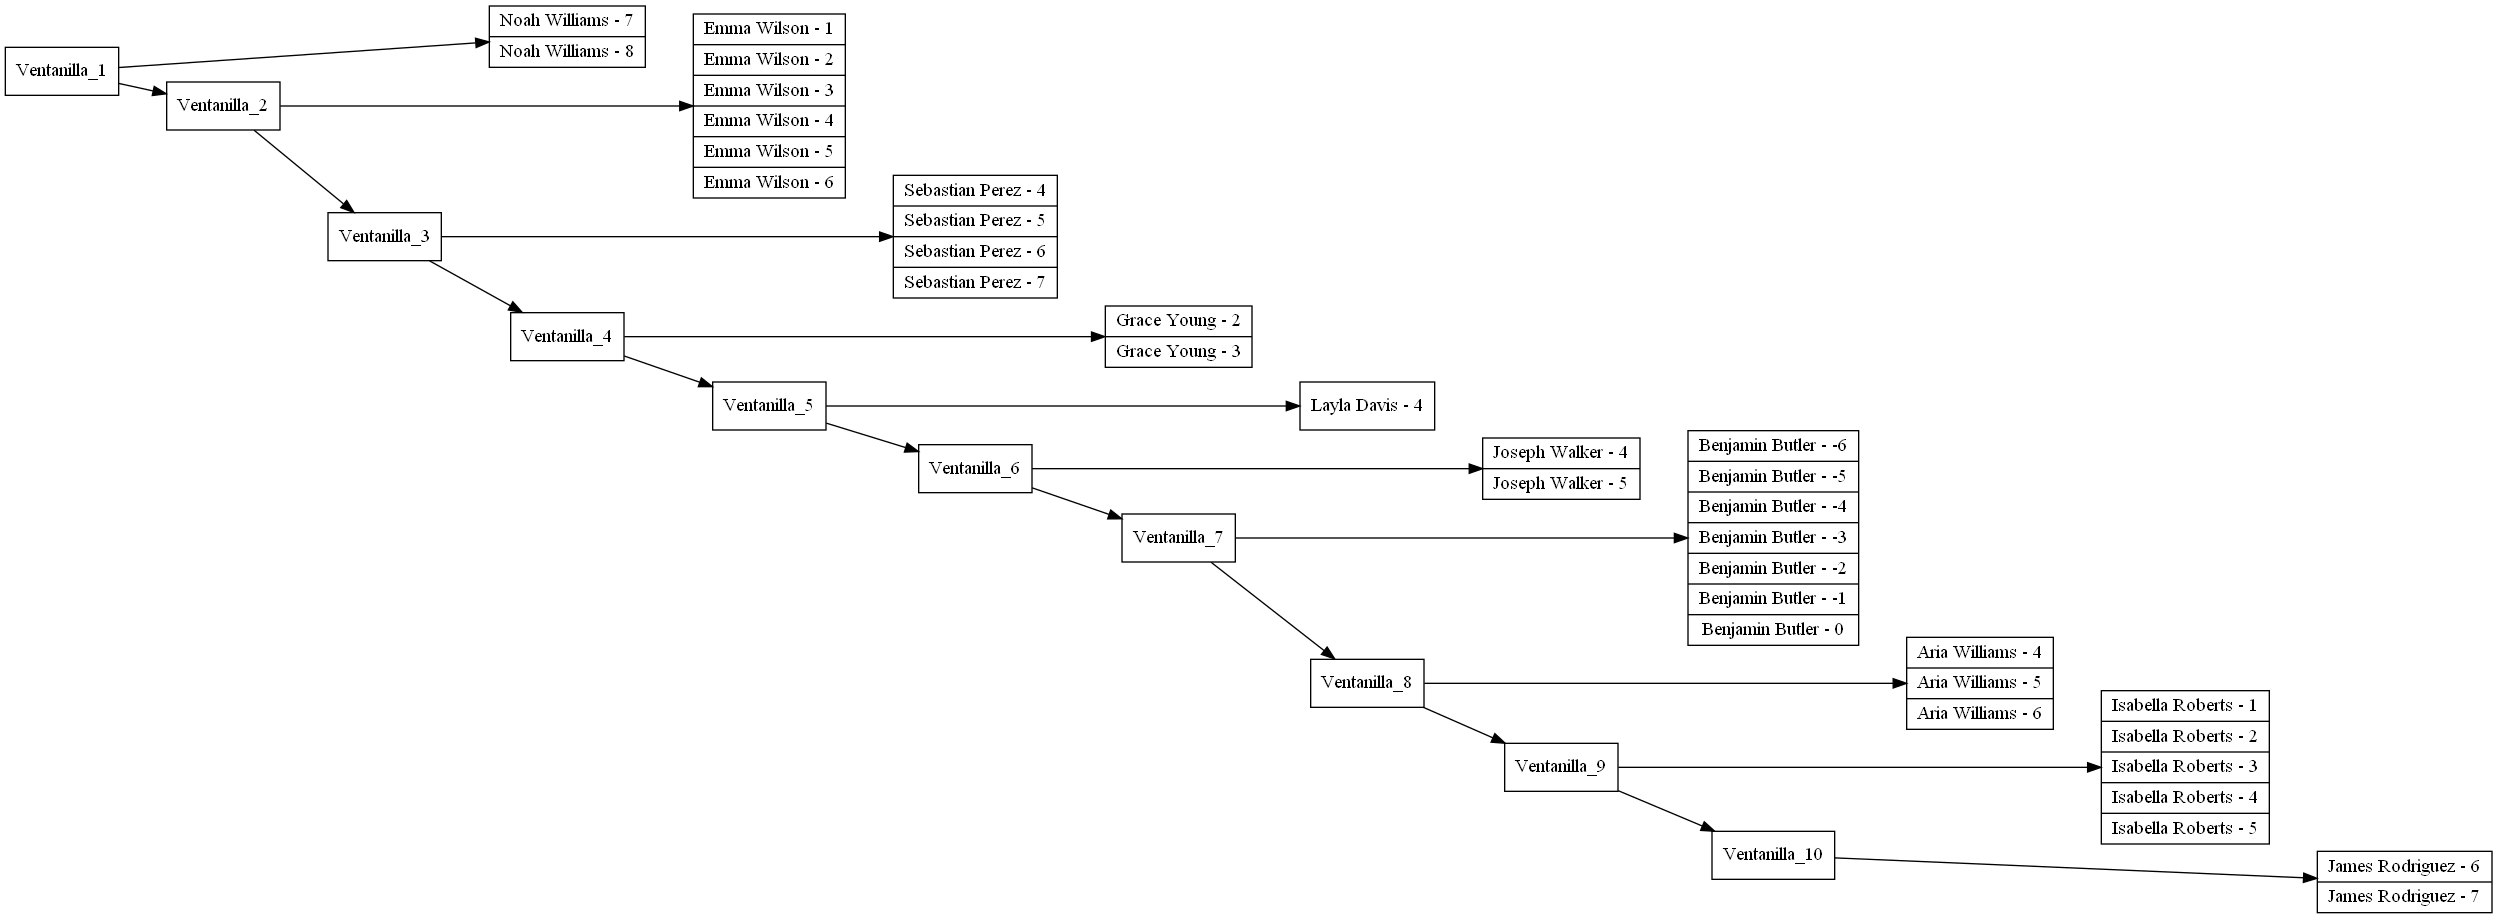
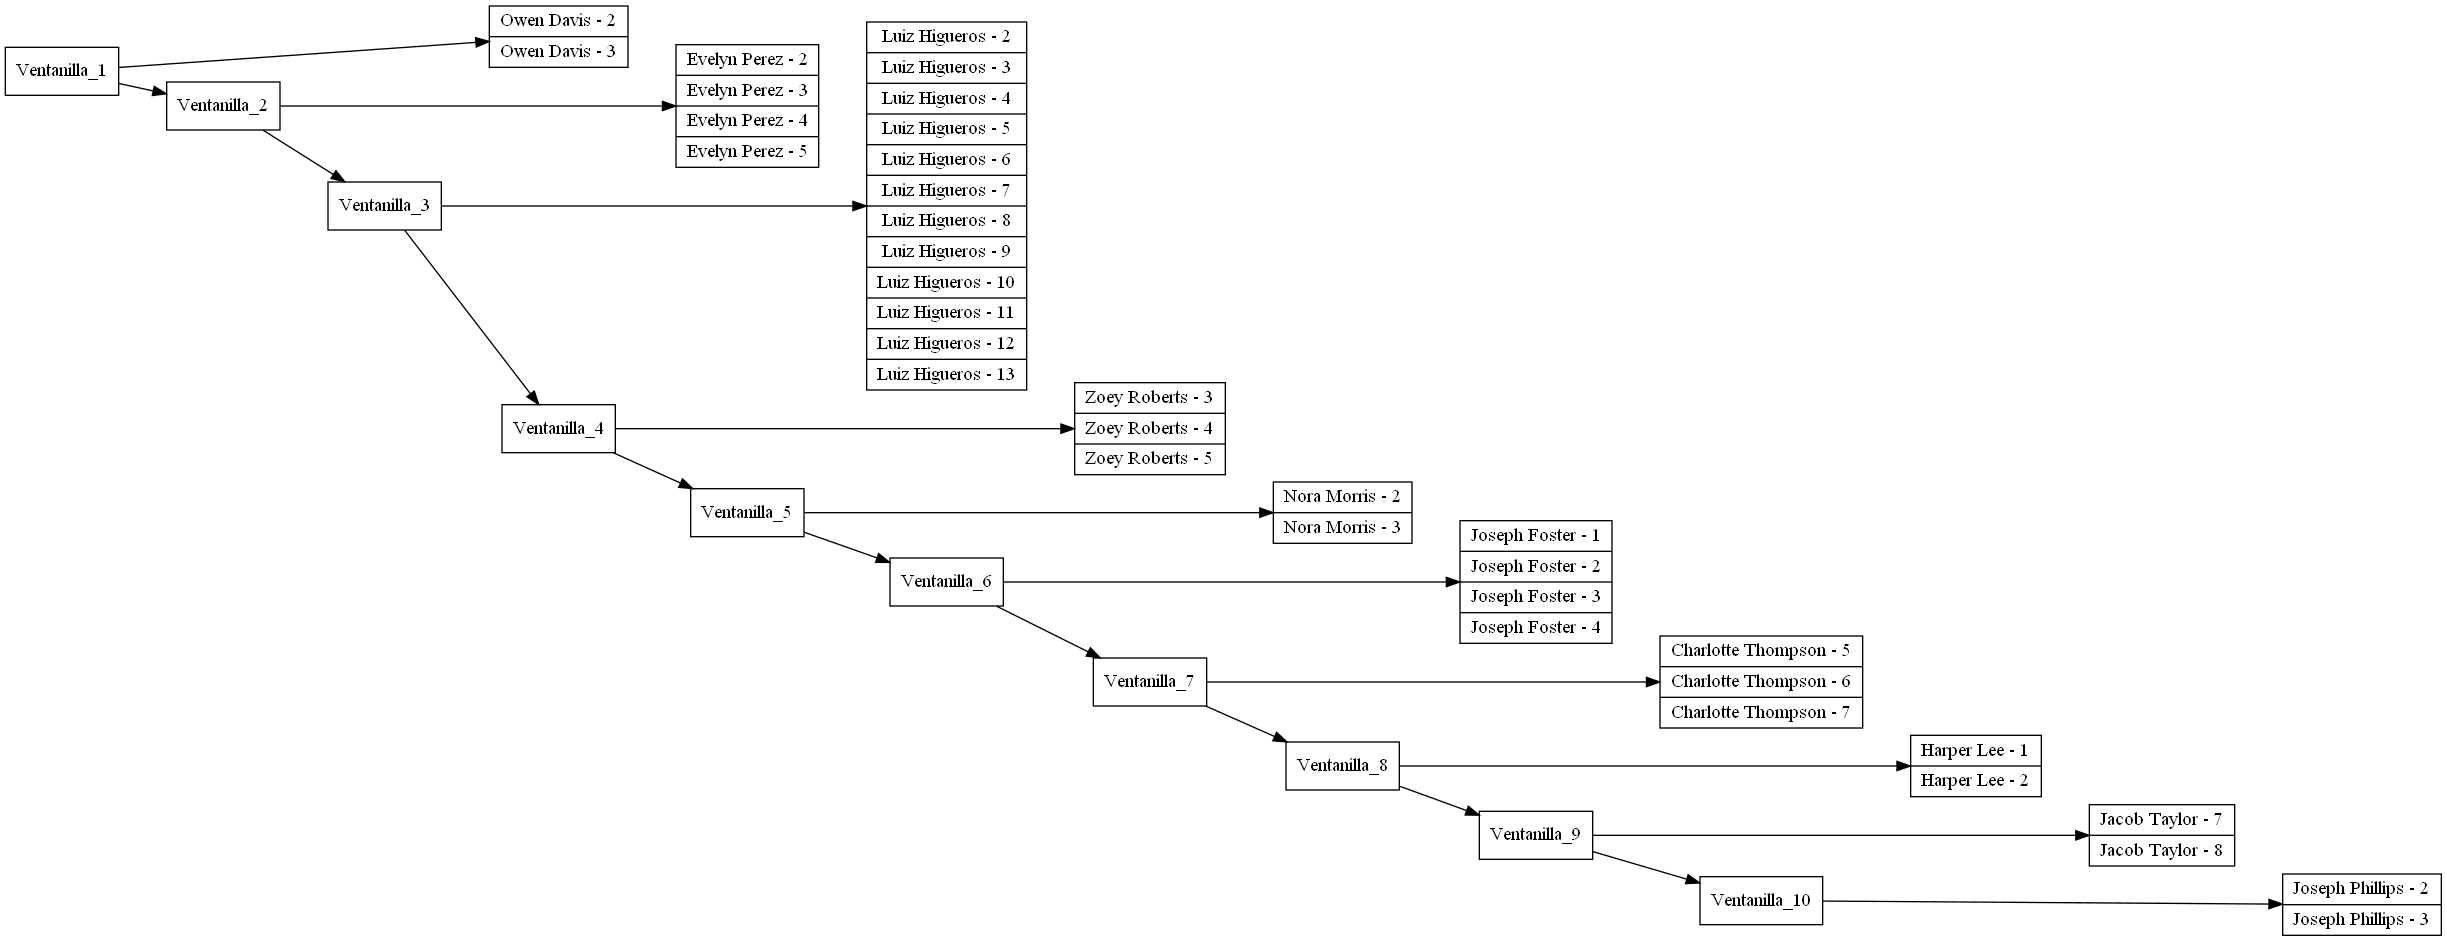
Commit Final

diff --git a/UDrawing_Paper/src/main/java/com/mycompany/udrawing_paper/Main.java b/UDrawing_Paper/src/main/java/com/mycompany/udrawing_paper/Main.java
@@ -6,6 +6,9 @@ package com.mycompany.udrawing_paper;
 
 import java.io.File;
 import  com.jayway.jsonpath.JsonPath;
+import java.util.ArrayList;
+import java.util.Collections;
+import java.util.Comparator;
 import java.util.List;
 import java.util.Map;
 import java.util.Random;
@@ -34,6 +37,7 @@ public class Main {
         String x = "";
         int conC = 0;  //Indica cuantos pasos llevva la impresión a color 
         int conB = 0;  //Indica cuantos pasos llevva la impresión a BN 
+        int pasos = 1; //Contador de pasos ejecutados
         //Inicialización de grafos
         Atendidos.add(null, "Vacio");
         BN.enqueue(null, "Libre");
@@ -73,6 +77,7 @@ public class Main {
                     //Carga de datos
                     if ("1".equals(x1)){ 
                         try{
+                            Clientes.deleteL();
                             Scanner a1 = new Scanner(System.in);
                             String ruta;
                             System.out.println("Ingrese la ruta del archivo:");
@@ -153,9 +158,10 @@ public class Main {
                     System.out.println("---------------------------------------------------------");
                 }else{
                     System.out.println("*********************************************************");
-                    System.out.println("                   RESUMEN DEL PASO");
+                    System.out.println("                   RESUMEN DEL PASO " + Integer.toString(pasos));
                     System.out.println("*********************************************************");
-
+                    pasos++;
+                    
                 //Manejo de la Cola------------------------------------------------------------
                     //Inicializar cola
                     NodoCola tcc = Clientes.head;
@@ -411,6 +417,8 @@ public class Main {
                             if (ct.total == 0){
                                 Atendidos.add(ct, "\"" + ct.nombre + "\"" );
                                 System.out.println(ct.nombre + " se ha retirado del establecimiento.");
+                                System.out.println("Pasos de " + ct.nombre + ": " + Integer.toString(ct.pasos));
+                                System.out.println("");
                                 Espera.remove(i);
                             }else{
                                 ct.pasos++;
@@ -458,7 +466,141 @@ public class Main {
             
             //Reportes**************************************************************************
             if ("4".equals(x)){
-                System.out.println("Funciona");
+                if( carga == 0 || ventanas == 0 ){
+                    System.out.println("");
+                    System.out.println("ERROR: Debe cargar la infromación y definir la cantidad de ventanillas antes de proceder.");
+                    System.out.println("");
+                    System.out.println("---------------------------------------------------------");
+                }else{
+                    //Inicializar Lista atendidos
+                    NodoListaSimple lf = Atendidos.head;
+                    if(lf == null){
+                            
+                    }else{
+                        if(lf.name.equals("Vacio")){
+                            System.out.println("");
+                            System.out.println("ERROR: No hay clientes que hayan salido de la organización.");
+                            System.out.println("");
+                            System.out.println("---------------------------------------------------------");
+                        }else{
+                            
+                            String x1 = "";
+                            while(!"0".equals(x1)){
+                                System.out.println("UDrawing Paper");
+                                System.out.println("REPORTES");
+                                System.out.println("1. Cliente con mayor cantidad de Impresiones a color");
+                                System.out.println("2. Cliente con mayor cantidad de Impresiones en Blanco y Negro");
+                                System.out.println("3. Cliente con mayor número de pasos");
+                                System.out.println("4. Buscar Cliente");
+                                System.out.println("0. Regresar");
+                                System.out.println("---------------------------------------------------------");
+                                System.out.println("Ingrese el número de una instrucción:");
+                                x1 = String.valueOf(a.nextLine());  
+                                System.out.println("---------------------------------------------------------");
+
+                                //Cliente con mayor cantidad de imagenes a color
+                                if ("1".equals(x1)){
+                                    System.out.println("*********************************************************");
+                                    System.out.println("                TOP 5 - IMAGENES A COLOR ");
+                                    System.out.println("*********************************************************");
+                                    List<Cliente> orden = new ArrayList<>();
+                                    NodoListaSimple to = Atendidos.head;
+                                    for ( int i = 0; i < Atendidos.no; i++){
+                                        orden.add((Cliente)to.content);
+                                        to = to.next;
+                                    }
+                                    orden.sort(Comparator.comparing(Cliente::getColor).reversed());
+
+                                    int iterador = orden.size();
+                                    if(iterador > 5){
+                                        iterador = 5;
+                                    }
+                                    for(int i = 0; i < iterador; i++){
+                                        Cliente temp = orden.get(i);
+                                        System.out.println(Integer.toString(i + 1) + ". " + temp.nombre + " - Imagenes Impresas a Color: " + temp.tc);
+                                    }
+                                    System.out.println("");
+                                    System.out.println("---------------------------------------------------------");
+                                }
+
+                                //Cliente con mayor cantidad de imagenes en blanco y negro
+                                if ("2".equals(x1)){
+                                    System.out.println("*********************************************************");
+                                    System.out.println("                TOP 5 - IMAGENES EN BN ");
+                                    System.out.println("*********************************************************");
+                                    List<Cliente> orden = new ArrayList<>();
+                                    NodoListaSimple to = Atendidos.head;
+                                    for ( int i = 0; i < Atendidos.no; i++){
+                                        orden.add((Cliente)to.content);
+                                        to = to.next;
+                                    }
+                                    orden.sort(Comparator.comparing(Cliente::getNegro).reversed());
+
+                                    int iterador = orden.size();
+                                    if(iterador > 5){
+                                        iterador = 5;
+                                    }
+                                    for(int i = 0; i < iterador; i++){
+                                        Cliente temp = orden.get(i);
+                                        System.out.println(Integer.toString(i + 1) + ". " + temp.nombre + " - Imagenes Impresas en Blanco y Negro: " + temp.tn);
+                                    }
+                                    System.out.println("");
+                                    System.out.println("---------------------------------------------------------");
+
+                                }
+
+                                //Cliente con mayor número de pasos
+                                if ("3".equals(x1)){
+                                    System.out.println("*********************************************************");
+                                    System.out.println("                CLIENTE CON MÁS PASOS");
+                                    System.out.println("*********************************************************");
+                                    List<Cliente> orden = new ArrayList<>();
+                                    NodoListaSimple to = Atendidos.head;
+                                    for ( int i = 0; i < Atendidos.no; i++){
+                                        orden.add((Cliente)to.content);
+                                        to = to.next;
+                                    }
+                                    orden.sort(Comparator.comparing(Cliente::getPasos).reversed());
+                                    Cliente temp = orden.get(0);
+         
+                                    System.out.println(temp.nombre + " estuvo más tiempo en la empresa con la cantidad de " + Integer.toString(temp.pasos) + " pasos." );
+                                    System.out.println("");
+                                    System.out.println("---------------------------------------------------------");
+                                }
+
+                                //Buscar Cliente
+                                if ("4".equals(x1)){
+                                    Scanner a1 = new Scanner(System.in);
+                                    String cliente;
+                                    System.out.println("Ingrese el nombre del cliente:");
+                                    cliente = a1.nextLine();
+
+                                    NodoListaSimple to = Atendidos.head;
+                                    for ( int i = 0; i < Atendidos.no; i++){
+                                        Cliente ct = (Cliente)to.content;
+                                        if(cliente.equals(ct.nombre)){
+                                            System.out.println("*********************************************************");
+                                            System.out.println("                 RESULTADOS DE BUSQUEDA ");
+                                            System.out.println("*********************************************************");
+                                            System.out.println("ID                    : " + ct.ID);
+                                            System.out.println("NOMBRE                : " + ct.nombre);
+                                            System.out.println("VENTANA QUE LO ATENDIÓ: " + ct.ventana);
+                                            System.out.println("IMAGENES A COLOR      : " + Integer.toString(ct.tc));
+                                            System.out.println("IMAGENES EN BN        : " + Integer.toString(ct.tn));
+                                            System.out.println("PASOS EN EL SISTEMA   : " + Integer.toString(ct.pasos));
+                                            System.out.println("");
+                                            System.out.println("---------------------------------------------------------");
+                                            break;
+                                        }
+                                        to = to.next;
+                                    } 
+                                }
+
+                            }
+                            
+                        }
+                    }
+                }
             }
             
             
@@ -521,6 +663,8 @@ public class Main {
         c.add(1, "Uno");
         c.add(2, "Dos");
         c.add(3, "Tres");
+        c.remove(0);
+        c.dibujar("Prueba.txt", "Prueba.png");
         
         
         //Ejemplo de una lista simple
@@ -545,12 +689,7 @@ public class Main {
         //Ejemplo de Lista de Listas
         ListaDCircularL d = new ListaDCircularL();
         d.add(c, "Números", null);
-        String ID = d.head.ID;
-        System.out.println(d.head.name);
-        int busqueda = d.find(ID);
-        System.out.println(busqueda);
-        d.remove(busqueda);
-        d.dibujar("DLC.txt", "DLC.png");
+        
         
         //Ejemplo de una lista de pilas
         ListaPilas e = new ListaPilas();

diff --git a/UDrawing_Paper/src/main/java/com/mycompany/udrawing_paper/ListaSimple.java b/UDrawing_Paper/src/main/java/com/mycompany/udrawing_paper/ListaSimple.java
@@ -13,9 +13,11 @@ import java.io.PrintWriter;
  */
 public class ListaSimple {
     NodoListaSimple head; //Cabecera de la cola
+    int no; //Nodos de la lista
     
     public ListaSimple(){
         this.head = null;
+        this.no = 0;
     }
     
     //Metodos de la lista
@@ -24,12 +26,14 @@ public class ListaSimple {
         NodoListaSimple temp = new NodoListaSimple (_content, _name);
         if(isEmpty()){
             head = temp;
+            no++;
         }else{
             NodoListaSimple r = head;
             while(r.next != null){
                 r = r.next;
             }
             r.next = temp;
+            no++;
         }
     }
     
@@ -37,12 +41,40 @@ public class ListaSimple {
     //Vacia la lista
     public void deleteL(){
         this.head = null;
+        no = 0;
     }
     
     public boolean isEmpty(){
         return this.head == null;
     }
     
+    //Las posiciones empiezan desde 0. Restarle uni al idice para no tener errores.
+    public void remove(int pos){
+        NodoListaSimple aux = this.head;
+        for(int i = 0; i < pos; i++){
+            aux = aux.next;
+        }
+        
+        if (this.no ==1 && aux ==this.head){
+            this.head = null;
+            this.no = 0;
+        } else{
+            if (aux == this.head){
+            NodoListaSimple rnext = aux.next;
+            this.head = rnext;
+            this.no--;
+            }else{
+                NodoListaSimple rprev = this.head;
+                NodoListaSimple rnext = aux.next;
+                for(int i = 0; i < pos-1; i++){
+                    rprev = rprev.next;
+                }
+                rprev.next = rnext;
+                aux = null;
+                this.no--;
+            }
+        }
+    }
     //Metodos de Graficación
     //--------------------------------------------------------------------------
     

diff --git a/UDrawing_Paper/src/main/java/com/mycompany/udrawing_paper/Cliente.java b/UDrawing_Paper/src/main/java/com/mycompany/udrawing_paper/Cliente.java
@@ -16,6 +16,8 @@ public class Cliente {
     int pasos; //Numero de pasos en el sistema
     String ventana; //Nombre de la ventanilla que lo atendió
     int total; //Total de imagenes que posee un cliente
+    int tn; //Total de imagenes BN (Usada en los reportes)
+    int tc; //Total de imagenes a color (Usada en los reportes)
     
     public Cliente(String _id, String _nombre, int _color, int _bn){
         this.ID = _id;
@@ -24,5 +26,22 @@ public class Cliente {
         this.bn = _bn;
         this.pasos = 0;
         this.total = _color + _bn;
+        this.tn = _bn;
+        this.tc = _color;
+    }
+    
+    public int getColor(){
+        int color = this.tc;
+        return color;
+    }
+    
+    public int getNegro(){
+        int negro = this.tn;
+        return negro;
+    }
+    
+    public int getPasos(){
+        int pasos = this.pasos;
+        return pasos;
     }
 }
